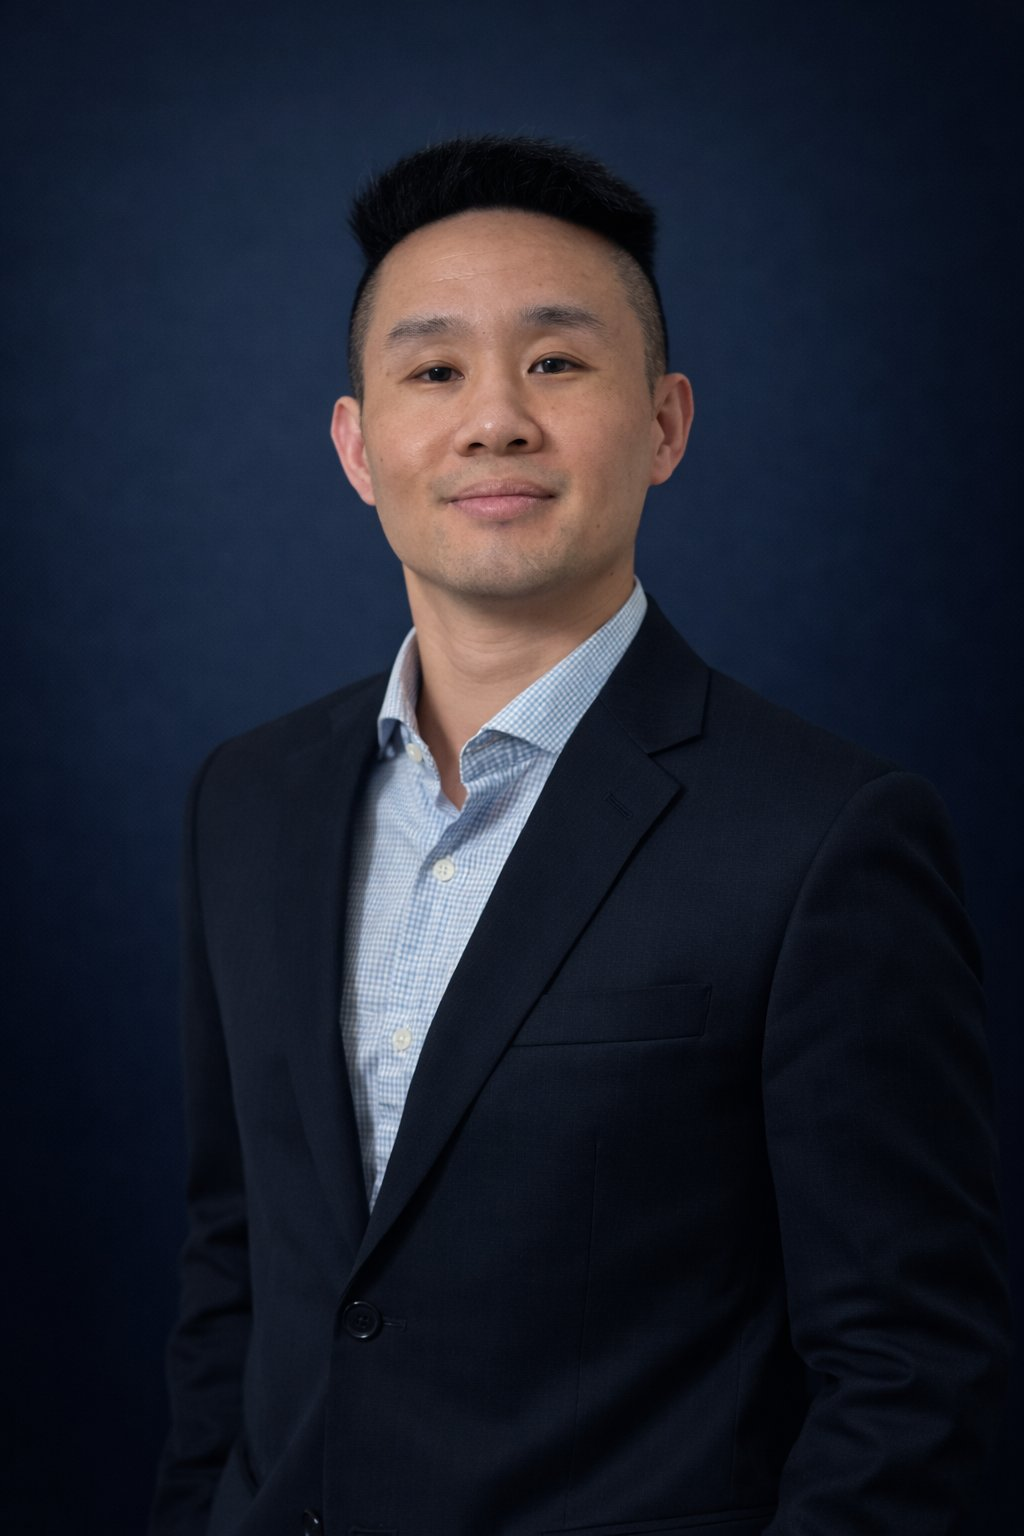
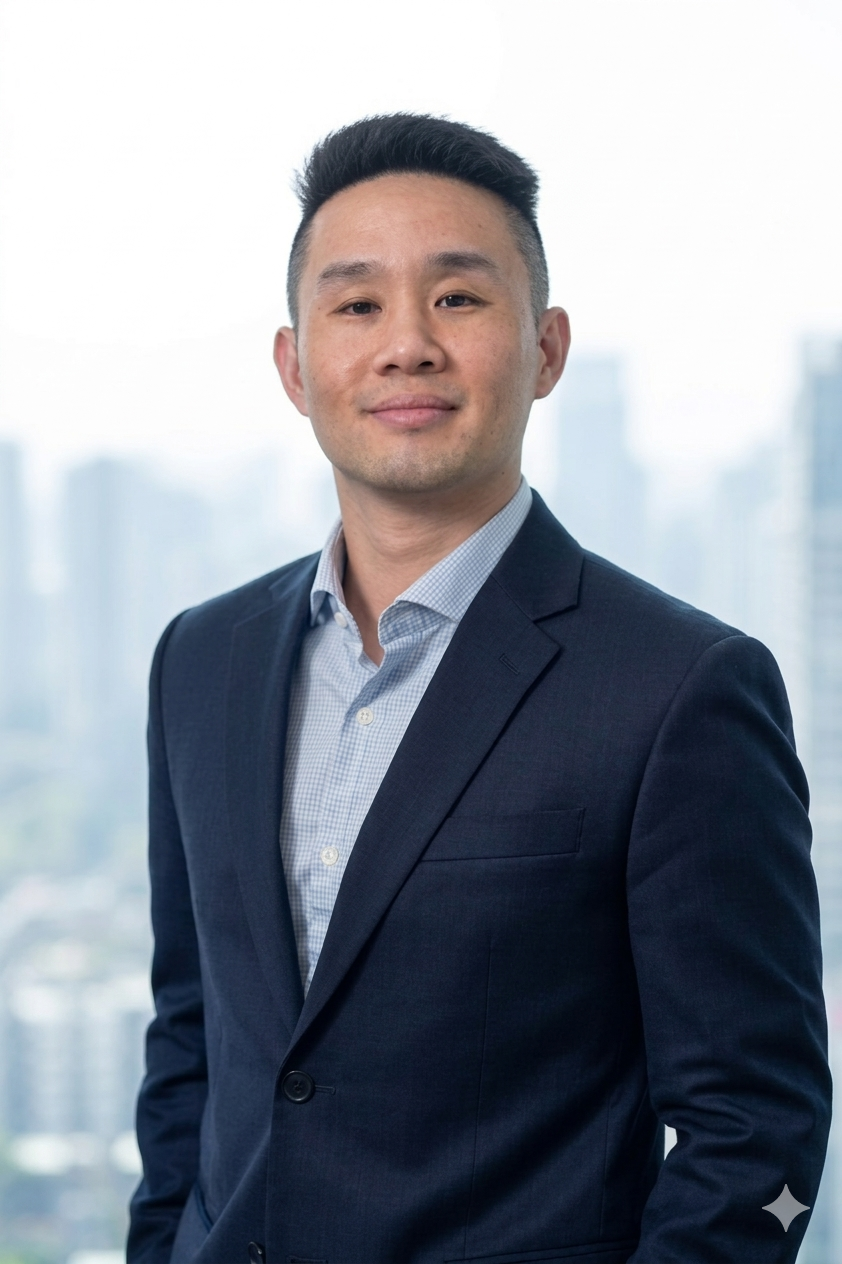
Add files via upload

diff --git a/index.html b/index.html
@@ -831,12 +831,7 @@ footer {
       <!-- Michael Pan -->
       <div class="tmcard shim rv">
         <div class="mphoto">
-          <div class="mphoto-ph">
-            <svg width="64" height="64" viewBox="0 0 64 64" fill="none" xmlns="http://www.w3.org/2000/svg">
-              <circle cx="32" cy="24" r="12" fill="#A8AECA"/>
-              <path d="M4 60c0-15.464 12.536-28 28-28s28 12.536 28 28" fill="#A8AECA"/>
-            </svg>
-          </div>
+          <img src="nell-ren.png" alt="Michael Pan">
         </div>
         <div class="mname">Michael Pan</div>
         <div class="mtag-group">
@@ -858,12 +853,7 @@ footer {
       <!-- Nell Ren -->
       <div class="tmcard shim rv">
         <div class="mphoto">
-          <div class="mphoto-ph">
-            <svg width="64" height="64" viewBox="0 0 64 64" fill="none" xmlns="http://www.w3.org/2000/svg">
-              <circle cx="32" cy="24" r="12" fill="#A8AECA"/>
-              <path d="M4 60c0-15.464 12.536-28 28-28s28 12.536 28 28" fill="#A8AECA"/>
-            </svg>
-          </div>
+          <img src="nell-ren.png" alt="Nell Ren">
         </div>
         <div class="mname">Nell Ren</div>
         <div class="mtag-group">
@@ -884,12 +874,7 @@ footer {
       <!-- Justin Liu -->
       <div class="tmcard shim rv">
         <div class="mphoto">
-          <div class="mphoto-ph">
-            <svg width="64" height="64" viewBox="0 0 64 64" fill="none" xmlns="http://www.w3.org/2000/svg">
-              <circle cx="32" cy="24" r="12" fill="#A8AECA"/>
-              <path d="M4 60c0-15.464 12.536-28 28-28s28 12.536 28 28" fill="#A8AECA"/>
-            </svg>
-          </div>
+          <img src="nell-ren.png" alt="Justin Liu">
         </div>
         <div class="mname">Justin Liu</div>
         <div class="mtag-group">
